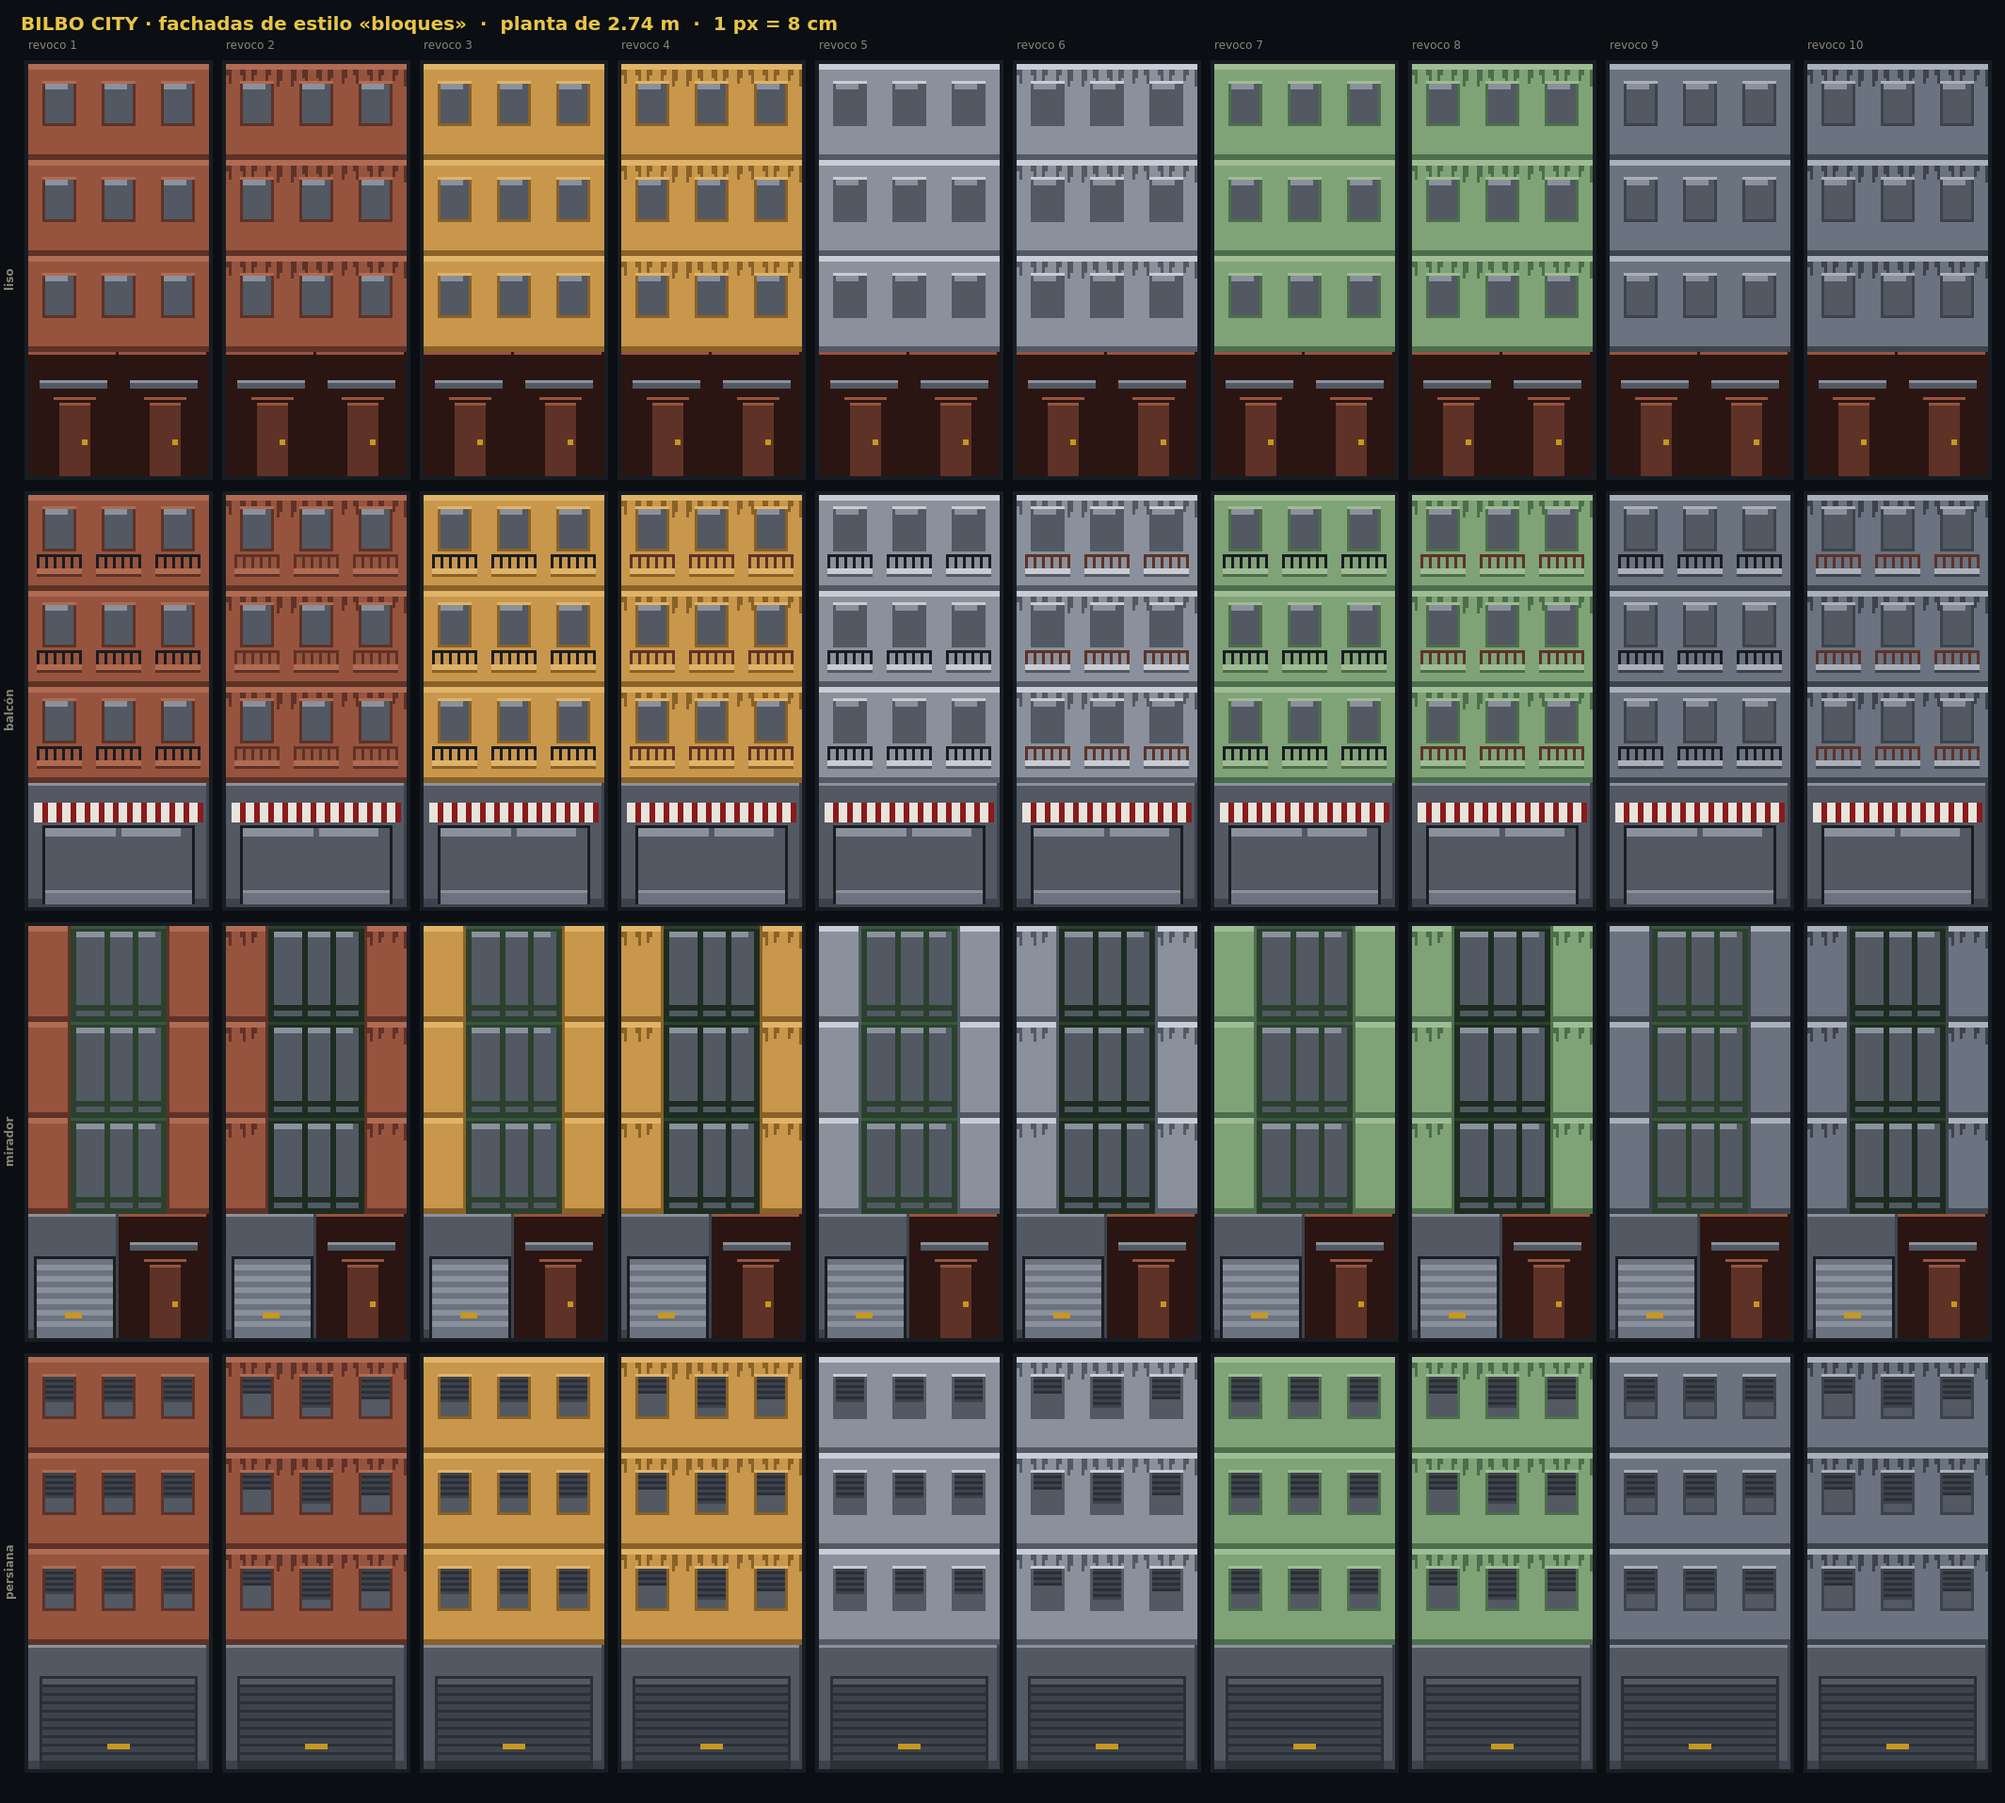
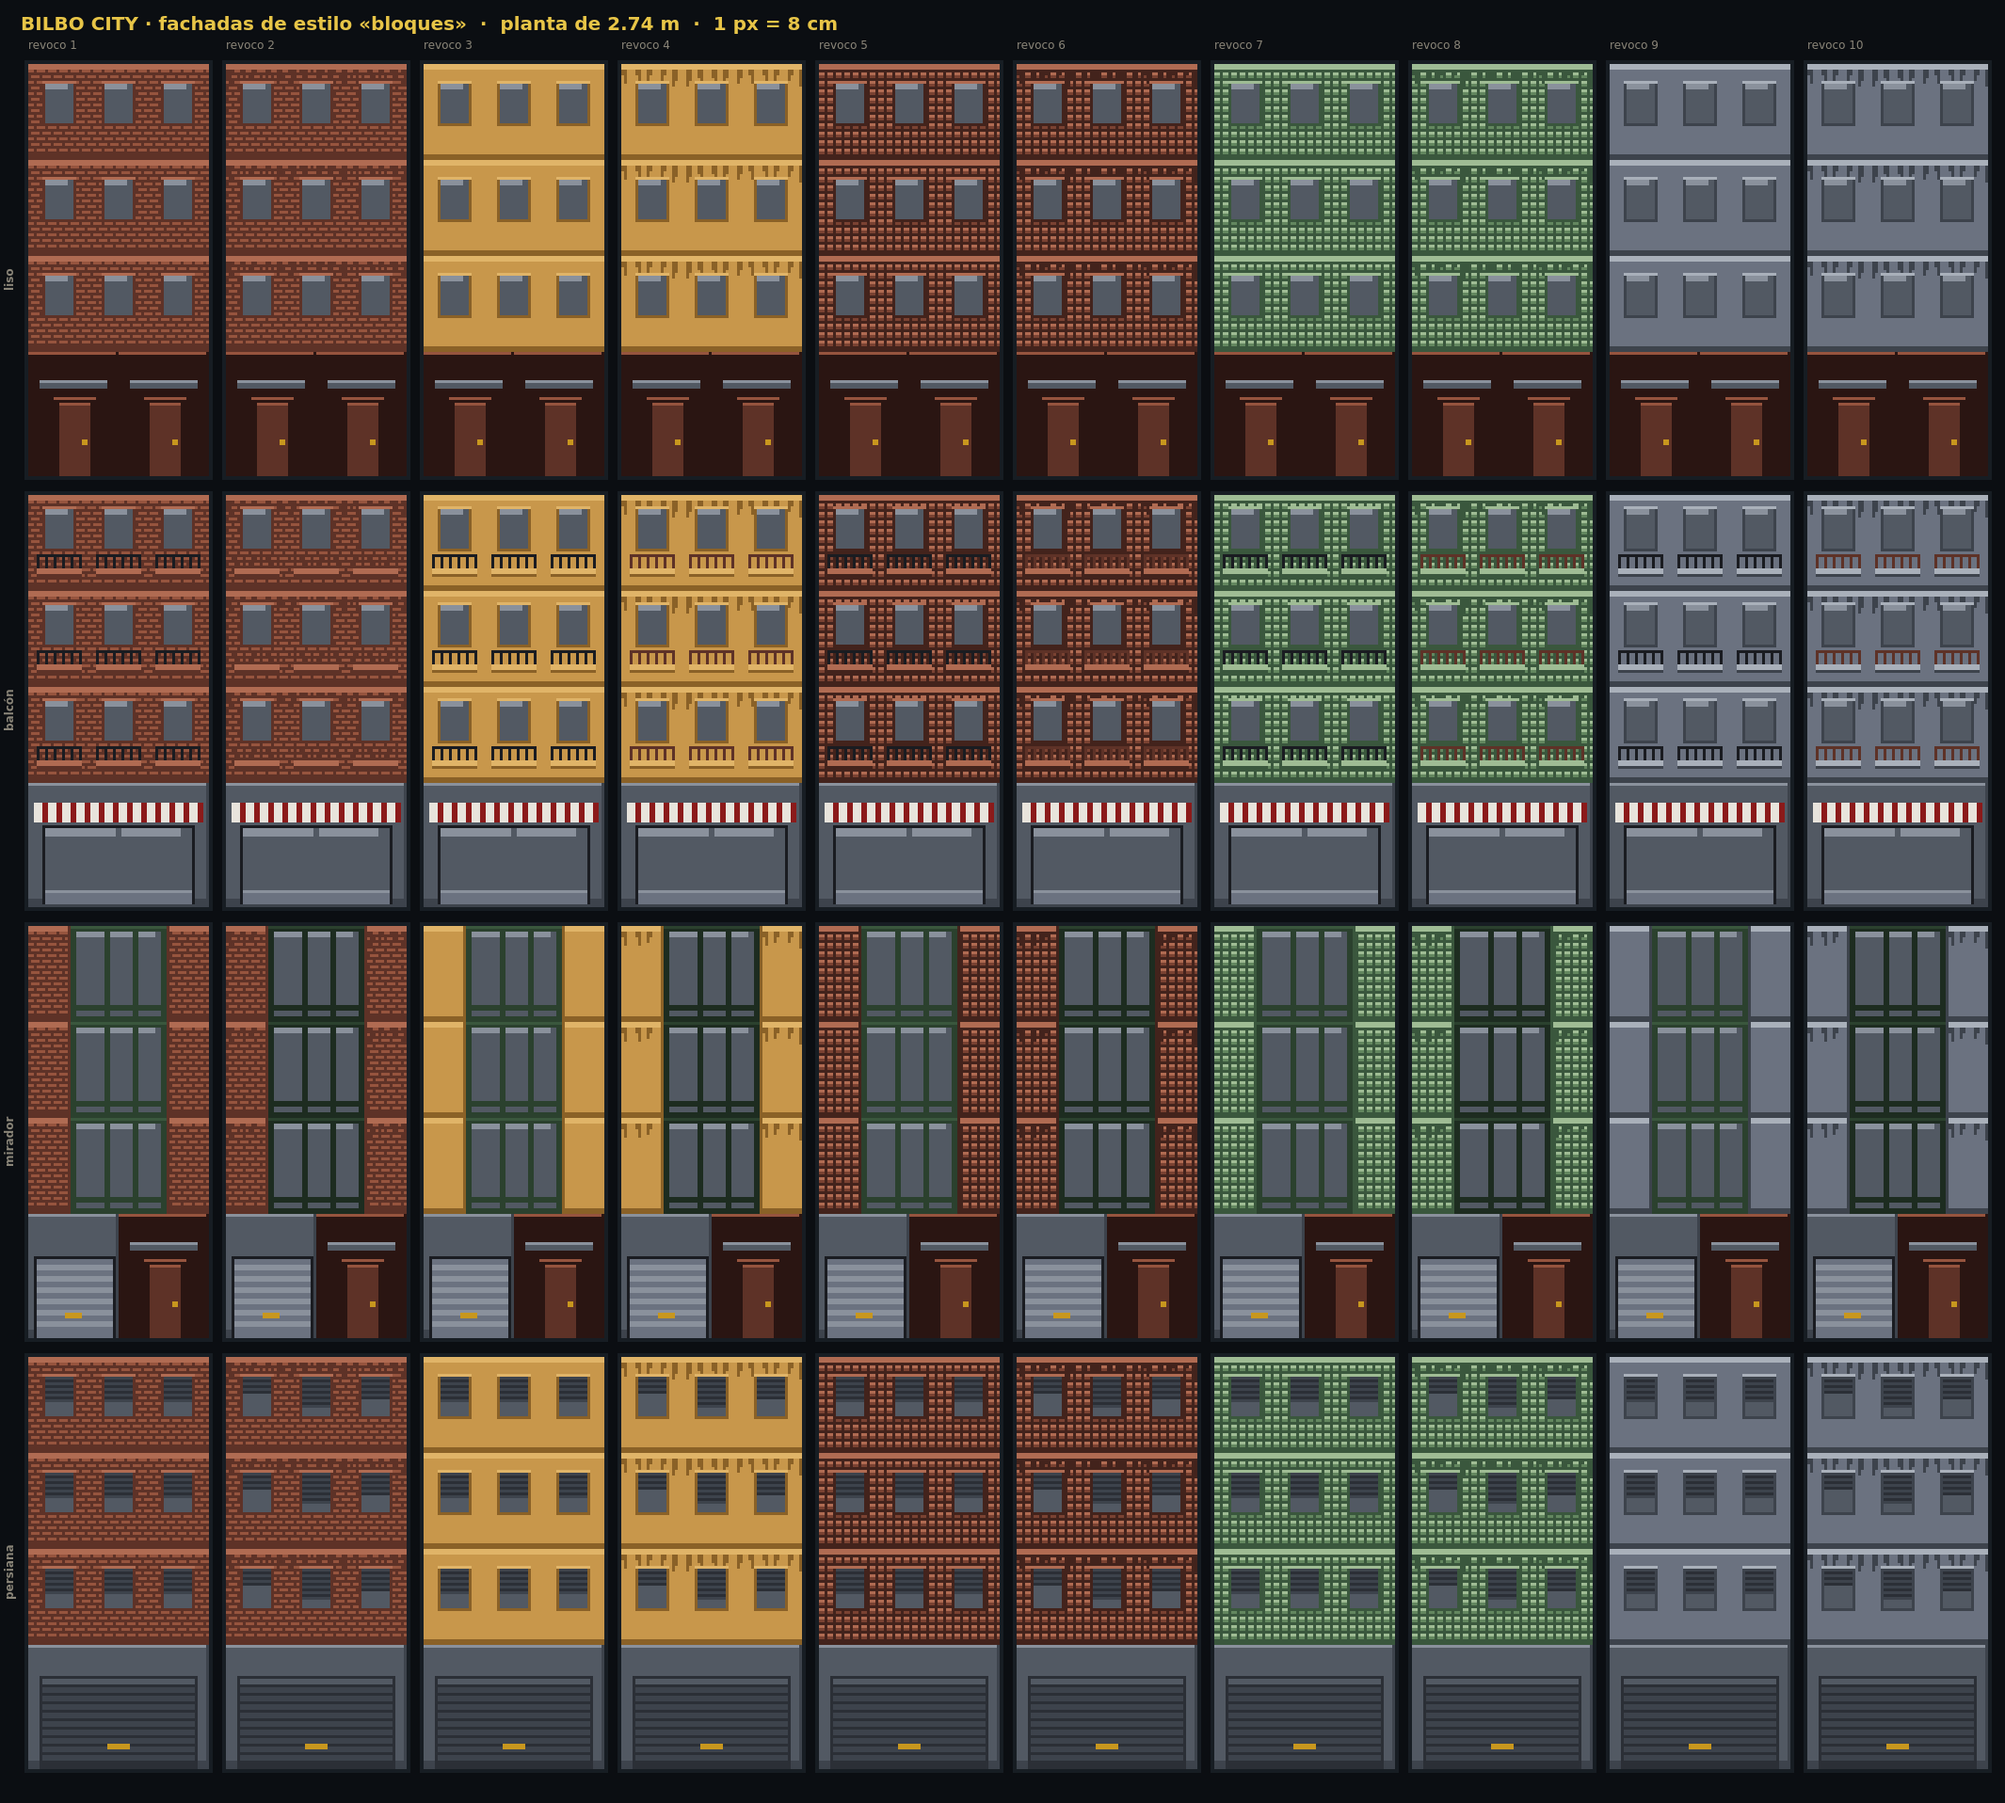
feat(bilbo-city): el paramento — azulejo y ladrillo caravista, con su despiece
Un revoco y un ladrillo visto del mismo color eran el mismo muro. Ahora el
material es una propiedad aparte del color, y se dibuja de verdad porque a 8 cm
por píxel cabe:

  ladrillo caravista   24 × 11,5 cm  = 3 × 1,5 px, a matajunta con su tendel
  azulejo              15 × 15 cm    = 2 × 2 px, con el brillo del vidriado
  revoco liso          sin despiece

De lejos se lee como grano y de cerca como lo que es, que es exactamente lo que
diferencia un bloque de los sesenta de otro revocado igual de ocre.

Santutxu queda con ladrillo caravista, azulejo marrón, azulejo verde —que es lo
que se puso—, revoco ocre y hormigón visto. El Casco lleva caravista; el Ensanche,
ninguno: allí es revoco y piedra.

`./verificar.sh` en verde.

Claude-Session: https://claude.ai/code/session_01NtercYBRM3YRCpqKNoAo7d

diff --git a/bilbo-city/referencia/bilbo-city.html b/bilbo-city/referencia/bilbo-city.html
@@ -3075,16 +3075,18 @@ const REVOCO={
  /* El Ensanche de la foto de Zubiarte: revoco crema, rosa palido y piedra clara, y el
     mirador verde oscuro recortado encima. Nada de ladrillo caravista, que eso es de los
     bloques de los sesenta y aqui no hay. */
- senorial:  [[C.crema,C.blanco,C.hormigonO],[C.tez7,C.nieve,C.tez5],
-             [C.hormigon6,C.nieve,C.hormigon4],[C.hormigon5,C.hormigon7,C.hormigon3]],
- denso:     [[C.ladrillo4,C.ladrillo5,C.ladrillo2],[C.luz5,C.luz6,C.luz3],
-             [C.hormigon5,C.hormigon7,C.hormigon3]],
+ senorial:  [[C.crema,C.blanco,C.hormigonO,'liso'],[C.tez7,C.nieve,C.tez5,'liso'],
+             [C.hormigon6,C.nieve,C.hormigon4,'liso'],[C.hormigon5,C.hormigon7,C.hormigon3,'liso']],
+ denso:     [[C.ladrillo4,C.ladrillo5,C.ladrillo2,'ladrillo'],[C.luz5,C.luz6,C.luz3,'liso'],
+             [C.hormigon5,C.hormigon7,C.hormigon3,'liso']],
  /* Santutxu */
- bloques:   [[C.ladrillo4,C.ladrillo5,C.ladrillo2],[C.luz5,C.luz6,C.luz3],
-             [C.hormigon5,C.hormigon7,C.hormigon3],[C.verde6,C.verde7,C.verde4],
-             [C.hormigon4,C.hormigon6,C.hormigon2]],
- industrial:[[C.hormigon4,C.hormigon6,C.hormigon2],[C.aceroO,C.acero,C.grisO]],
- abierto:   [[C.hormigon5,C.hormigon7,C.hormigon3],[C.ladrillo4,C.ladrillo5,C.ladrillo2]],
+ /* Santutxu: ladrillo caravista, azulejo de los sesenta —marron y verde, que es lo que
+    se puso—, revoco ocre y hormigon visto. */
+ bloques:   [[C.ladrillo4,C.ladrillo5,C.ladrillo2,'ladrillo'],[C.luz5,C.luz6,C.luz3,'liso'],
+             [C.ladrillo3,C.ladrillo5,C.ladrillo1,'azulejo'],[C.verde5,C.verde7,C.verde3,'azulejo'],
+             [C.hormigon4,C.hormigon6,C.hormigon2,'liso']],
+ industrial:[[C.hormigon4,C.hormigon6,C.hormigon2,'liso'],[C.aceroO,C.acero,C.grisO,'liso']],
+ abierto:   [[C.hormigon5,C.hormigon7,C.hormigon3,'liso'],[C.ladrillo4,C.ladrillo5,C.ladrillo2,'ladrillo']],
 };
 const FACH_BARRIO={
  denso:     ['tasca','persiana','portal','escaparate','portal','persiana','tasca','ciega'],
@@ -3107,6 +3109,22 @@ function generarProps(){
     Ensanche, escaparate con toldo y portal de madera; en los bloques, más portal que
     tienda; en la industria, portones de chapa. No hay nada escrito a mano. */
  const VIDRIO='#3f5566', VIDRIOL='#7f9aa8', HIERRO=C.carbon;
+ /* De que esta hecho el paramento, que no es lo mismo que de que color es. A 8 cm por
+    pixel un ladrillo caravista mide 24x11,5 cm —3x1,5 px— y un azulejo de los sesenta,
+    15x15 —2x2—, asi que las dos texturas caben de verdad y no hay que sugerirlas.
+    Es lo que distingue un bloque de ladrillo visto de uno revocado del mismo color:
+    de lejos el despiece se lee como grano, y de cerca como lo que es. */
+ const pared=(g,W,H,muro,muroL,muroO,tex)=>{
+  P(g,0,0,W,H,muro);
+  if(tex==='ladrillo'){
+   for(let y=0;y<H;y+=2){P(g,0,y+1,W,1,muroO);          /* el tendel */
+    for(let x=(y/2%2)*2;x<W;x+=4)P(g,x,y,1,1,muroO);}   /* la llaga, a matajunta */
+  }else if(tex==='azulejo'){
+   for(let y=0;y<H;y+=3){P(g,0,y,W,1,muroL);            /* el brillo del vidriado */
+    P(g,0,y+2,W,1,muroO);
+    for(let x=0;x<W;x+=3)P(g,x+2,y,1,3,muroO);}
+  }
+  P(g,0,0,W,2,muroL);P(g,0,H-2,W,2,muroO);};
  /* Los bajos, a medida real. Iban dibujados en espacio de 32 y nunca se pasaron a metros:
     la hoja de un portal medía 1,29 × 3,06 m —una puerta de tres metros— al lado de una
     ventana de 0,81 × 1,13. Eso es lo que hacía que la fachada se viese falsa aunque cada
@@ -3199,8 +3217,8 @@ function generarProps(){
     ultima planta. Sin ella el muro y el tejado se tocan sin transicion y no se sabe donde
     acaba un piso y empieza el siguiente, que es lo que hacia que la manzana pareciese
     plana por mucho detalle que llevase. Vuela 30 cm, como una cornisa de verdad. */
- const alero=(muro,muroL,muroO)=>banda(5,(g,W,H)=>{
-  P(g,0,0,W,H,muro);P(g,0,0,W,2,muroL);
+ const alero=(muro,muroL,muroO,tex)=>banda(5,(g,W,H)=>{
+  pared(g,W,H,muro,muroL,muroO,tex);
   P(g,0,H-3,W,2,muroO);P(g,0,H-1,W,1,C.carbon);});
  /* El estado de conservacion. No hay dos comunidades que cuiden igual el edificio, y eso
     se ve desde la calle antes que ninguna otra cosa: el revoco manchado bajo los aleros y
@@ -3210,13 +3228,13 @@ function generarProps(){
   for(let x=0;x<W;x++){const alto=((x*13)%5)+2;
    if(((x*7+3)%9)<4)for(let y=0;y<alto;y++)P(g,x,y+2,1,1,osc);}
   ruido(g,W,H,[osc],8);};
- const TIPOS=(muro,muroL,muroO,ph,viejo)=>[
+ const TIPOS=(muro,muroL,muroO,ph,viejo,tex)=>[
   /* liso: ventana y nada mas, la planta de patio o de medianera */
-  banda(ph,(g,W,H)=>{P(g,0,0,W,H,muro);P(g,0,0,W,2,muroL);P(g,0,H-2,W,2,muroO);
+  banda(ph,(g,W,H)=>{pared(g,W,H,muro,muroL,muroO,tex);
    if(viejo)mancha(g,W,H,muroO);
    fila(g,W,x=>hueco(g,x,7,AN_V,AL_V,muroO,muroL));}),
   /* balcon: losa que vuela, baranda de hierro y la sombra que tira sobre el muro */
-  banda(ph,(g,W,H)=>{P(g,0,0,W,H,muro);P(g,0,0,W,2,muroL);P(g,0,H-2,W,2,muroO);
+  banda(ph,(g,W,H)=>{pared(g,W,H,muro,muroL,muroO,tex);
    if(viejo)mancha(g,W,H,muroO);
    const HI=viejo?C.ladrillo2:HIERRO;   /* la baranda, oxidada o no */
    fila(g,W,x=>{hueco(g,x,5,AN_V,AL_V,muroO,muroL);
@@ -3225,7 +3243,7 @@ function generarProps(){
     P(g,x-3,H-13,AN_V+6,1,HI);
     for(let b=0;b<AN_V+6;b+=3)P(g,x-3+b,H-13,1,5,HI);});}),
   /* mirador: la galeria acristalada de Bilbao, dos huecos de frente y su canto */
-  banda(ph,(g,W,H)=>{P(g,0,0,W,H,muro);P(g,0,0,W,2,muroL);P(g,0,H-2,W,2,muroO);
+  banda(ph,(g,W,H)=>{pared(g,W,H,muro,muroL,muroO,tex);
    /* El mirador de Bilbao no es un balcon acristalado suelto: es una columna que sube la
       fachada entera, de la primera planta al alero, pintada de verde oscuro sobre revoco
       claro. Por eso la caja ocupa la banda de arriba abajo, sin muro entre plantas —
@@ -3240,7 +3258,7 @@ function generarProps(){
    P(g,bx+2,H-6,30,2,CARP);                  /* el antepecho de cada planta */
    P(g,bx-1,0,1,H,muroO);P(g,bx+34,0,1,H,muroO);}),
   /* persiana echada: media calle esta asi a media manana */
-  banda(ph,(g,W,H)=>{P(g,0,0,W,H,muro);P(g,0,0,W,2,muroL);P(g,0,H-2,W,2,muroO);
+  banda(ph,(g,W,H)=>{pared(g,W,H,muro,muroL,muroO,tex);
    if(viejo)mancha(g,W,H,muroO);
    let iv=0;
    fila(g,W,x=>{hueco(g,x,7,AN_V,AL_V,muroO,muroL);
@@ -3254,9 +3272,9 @@ function generarProps(){
  PROP.pisos={};
  for(const est of Object.keys(REVOCO)){
   PROP.pisos[est]=[];
-  for(const [m,l,o] of REVOCO[est])for(const viejo of [0,1]){
-   const juego=TIPOS(m,l,o,PISO_BARRIO[est],viejo);
-   juego.alero=alero(m,l,o);            /* la cornisa va con su revoco */
+  for(const [m,l,o,tx] of REVOCO[est])for(const viejo of [0,1]){
+   const juego=TIPOS(m,l,o,PISO_BARRIO[est],viejo,tx);
+   juego.alero=alero(m,l,o,tx);            /* la cornisa va con su revoco */
    PROP.pisos[est].push(juego);
   }
  }
@@ -3264,7 +3282,7 @@ function generarProps(){
  const naveJuego=[banda(PISO_BARRIO.industrial,(g,W,H)=>{
   P(g,0,0,W,H,C.aceroO);P(g,0,0,W,2,C.acero);P(g,0,H-2,W,2,C.grisO);
   for(let x=4;x<W-6;x+=10)P(g,x,4,6,H-9,VIDRIO);})];
- naveJuego.alero=alero(C.aceroO,C.acero,C.grisO);
+ naveJuego.alero=alero(C.aceroO,C.acero,C.grisO,'liso');
  PROP.pisosNave=naveJuego;
  PROP.deposito=S_(18,20,g=>{P(g,3,4,12,14,'#7f9aa8');P(g,3,4,12,3,'#a8c4d0');
   P(g,15,4,2,14,C.aceroO);P(g,4,18,3,2,C.carbon);P(g,12,18,3,2,C.carbon);
